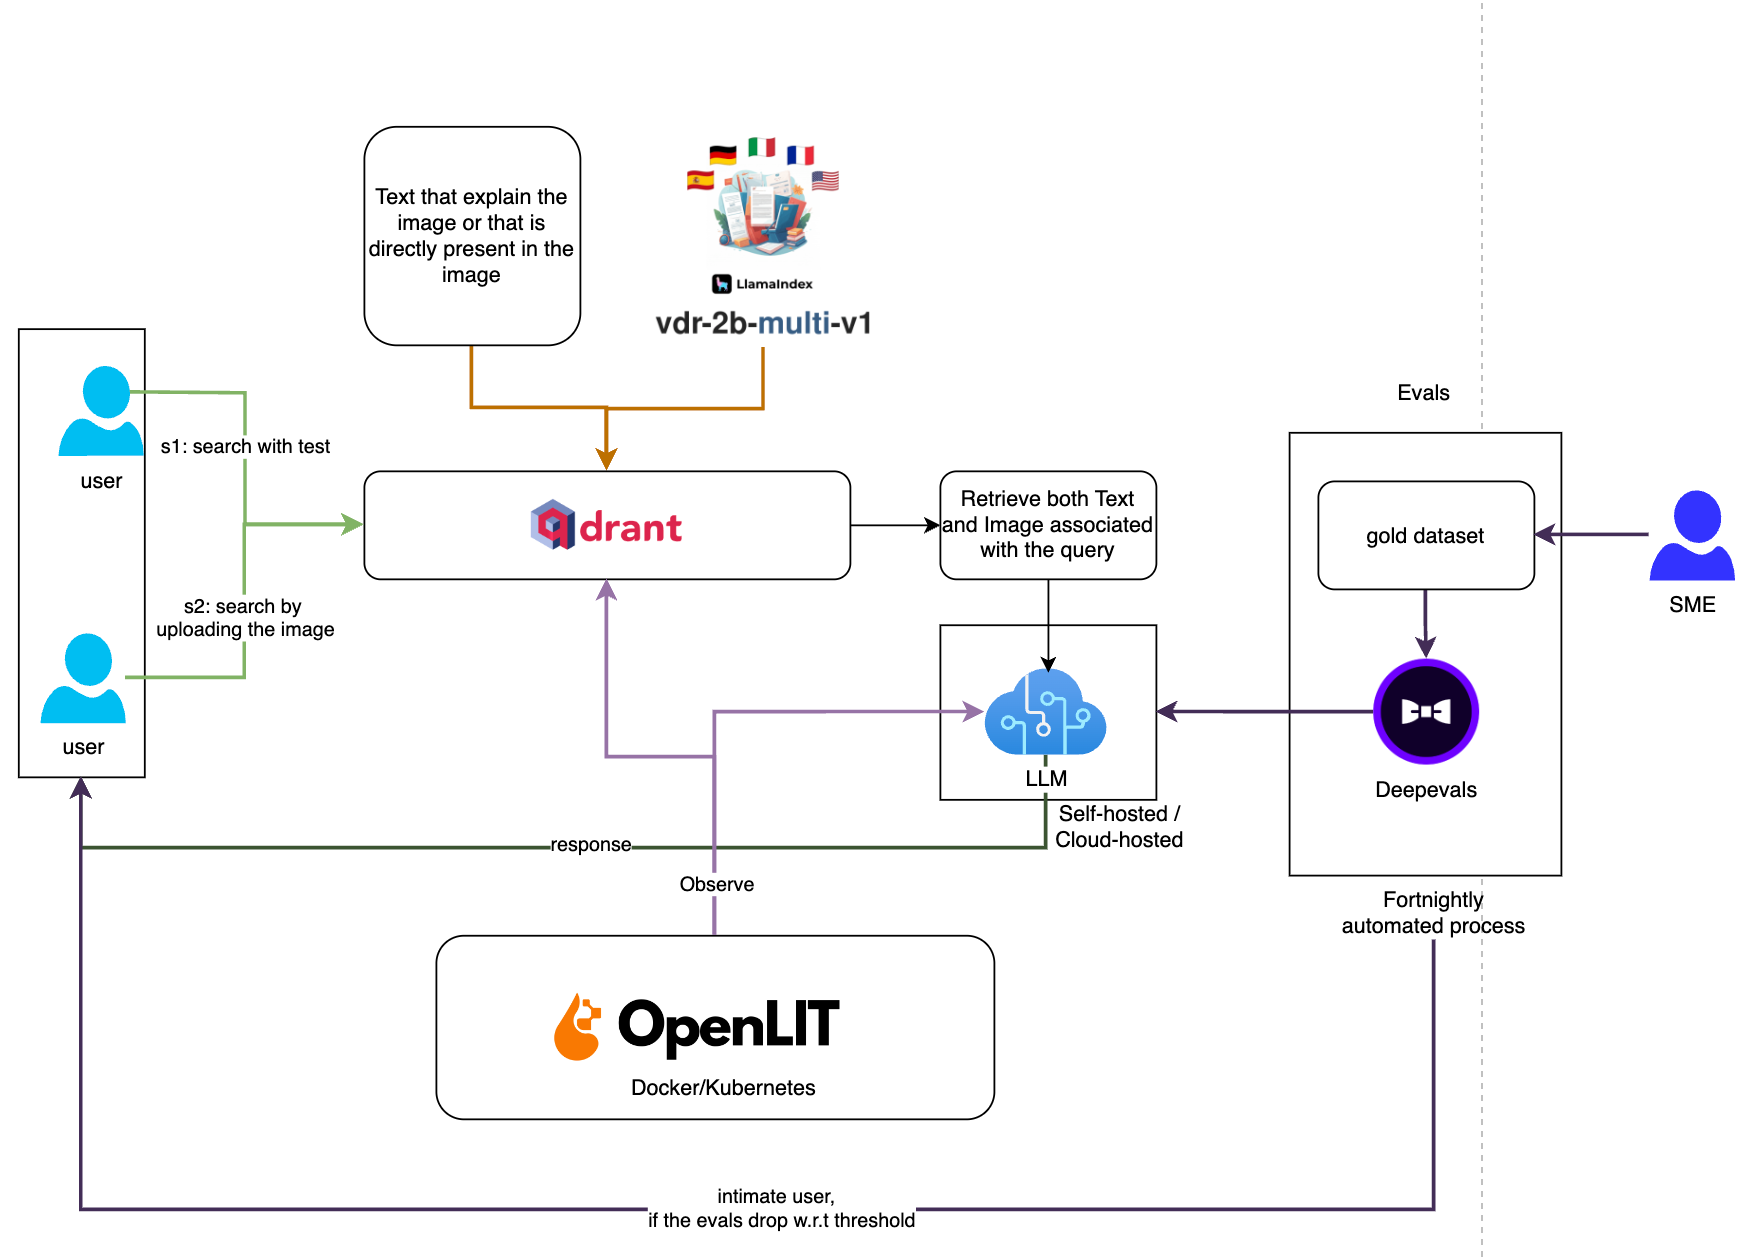
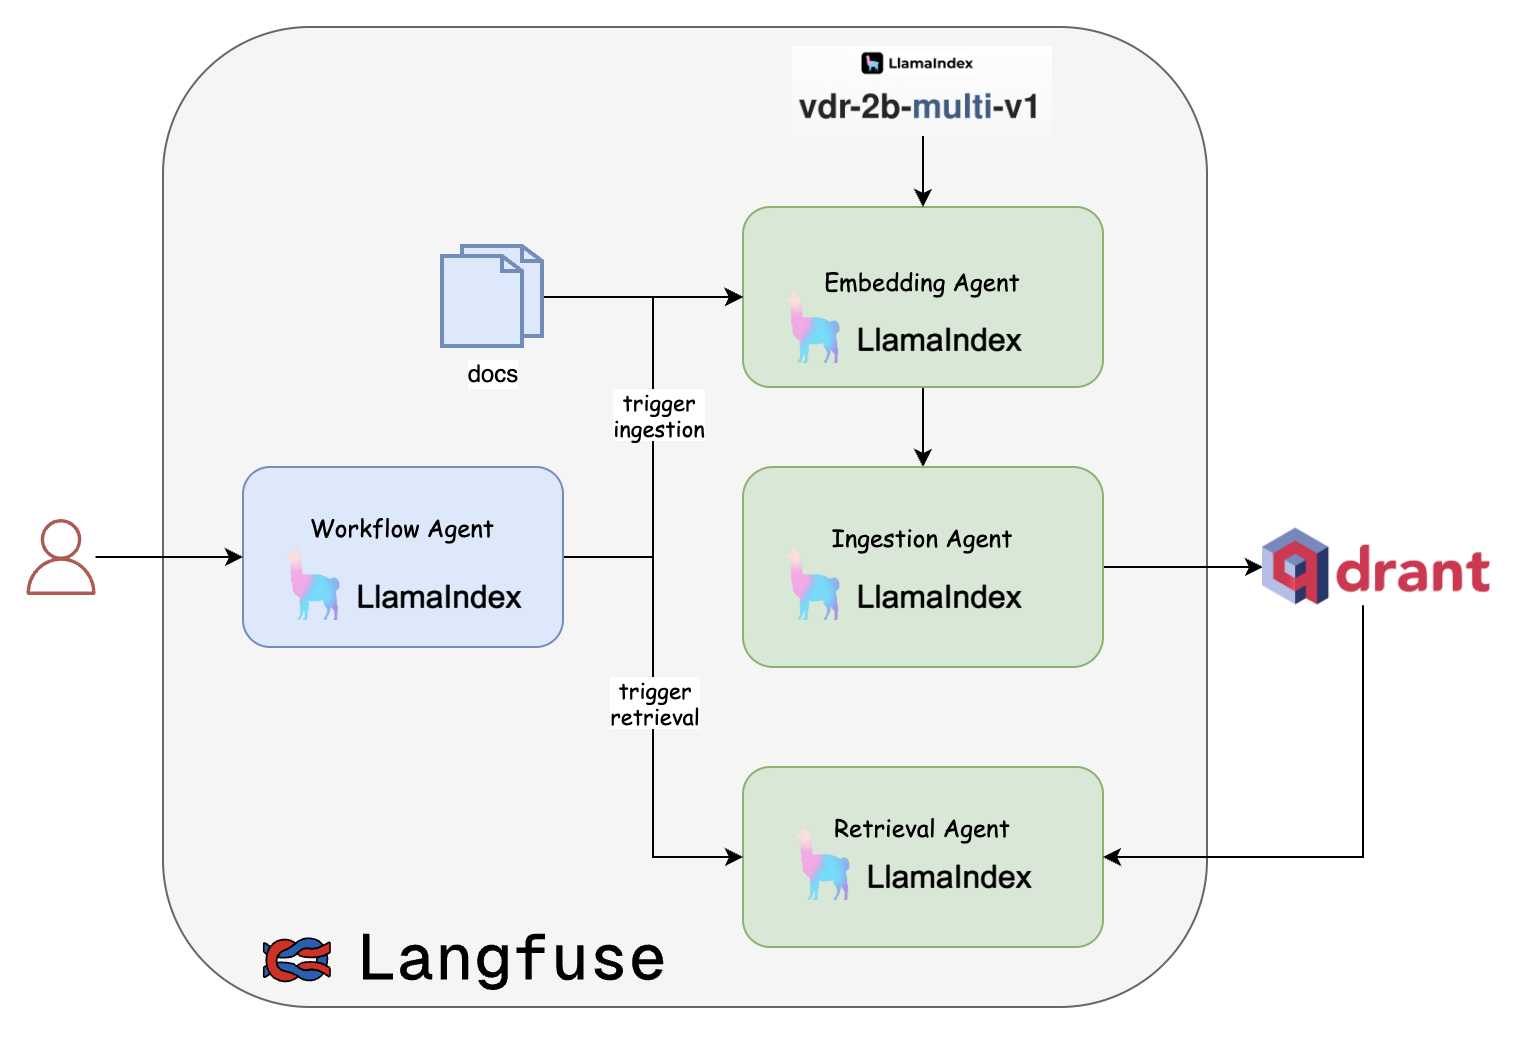
working code with agents and workflows (#3)

diff --git a/tools/rag_tools.py b/tools/rag_tools.py
@@ -1,0 +1,141 @@
+from qdrant_client import QdrantClient, models
+from llama_index.embeddings.huggingface import HuggingFaceEmbedding
+from PIL import Image
+from dotenv import load_dotenv, find_dotenv
+import os
+import json
+
+load_dotenv(find_dotenv())
+
+vec_db_client = QdrantClient(url="http://localhost:6333", api_key="th3s3cr3tk3y")
+collection_name = "architectures"
+
+# Initialize the documents list
+documents = []
+
+# Initialize the model to None
+model: HuggingFaceEmbedding = HuggingFaceEmbedding(
+    model_name="llamaindex/vdr-2b-multi-v1",
+    device="cpu",  # "mps" for mac, "cuda" for nvidia GPUs
+    trust_remote_code=True,
+)
+
+
+def create_embeddings():
+    """Useful for creating embeddings for images and text"""
+
+    print("downloading the llamaindex/vdr-2b-multi-v1 model from huggingface")
+    global model
+    global documents
+
+    # Specify the paths to the folders containing the images and descriptions
+    images_folder = "images"
+    descriptions_folder = "text"
+
+    print("creating document structure")
+
+    # Create a dictionary mapping image file names to their corresponding description files
+    image_files = sorted(os.listdir(images_folder))
+    description_files = sorted(os.listdir(descriptions_folder))
+
+    # Generate the documents structure
+    for image_file, description_file in zip(image_files, description_files):
+        # Read the description content
+        with open(os.path.join(descriptions_folder, description_file), "r") as f:
+            description_content = f.read().strip()
+
+        # Add the entry to the documents list
+        documents.append({
+            "architecture_description": description_content,
+            "architecture_image": os.path.join(images_folder, image_file)
+        })
+
+    # Save the documents structure to a JSON file (optional)
+    output_file = "documents.json"
+    with open(output_file, "w") as f:
+        json.dump(documents, f, indent=4)
+
+    print("Generated documents structure:")
+    print(json.dumps(documents, indent=4))
+
+
+def ingest_to_vec_db():
+    """Useful for ingesting the data to vector database"""
+    print("starting ingestion...")
+
+    text_embeddings = model.get_text_embedding_batch([doc["architecture_description"] for doc in documents],
+                                                     show_progress=True)
+    image_embeddings = []
+    for doc in documents:
+        image_embeddings.append(model.get_image_embedding(doc["architecture_image"]))
+
+    print("creating collection in qdrant...")
+
+    if not vec_db_client.collection_exists(collection_name=collection_name):
+        vec_db_client.create_collection(
+            collection_name=collection_name,
+            vectors_config={
+                "image": models.VectorParams(size=len(image_embeddings[0]), distance=models.Distance.COSINE),
+                "text": models.VectorParams(size=len(text_embeddings[0]), distance=models.Distance.COSINE),
+            }
+        )
+
+    print("inserting points into qdrant...")
+    vec_db_client.upload_points(
+        collection_name=collection_name,
+        points=[
+            models.PointStruct(
+                id=idx,
+                vector={
+                    "text": text_embeddings[idx],
+                    "image": image_embeddings[idx],
+                },
+                payload=doc
+            )
+            for idx, doc in enumerate(documents)
+        ]
+    )
+    print("indexing completed.")
+
+
+def retrieve_image_from_store(text_query: str):
+    """
+    Useful for retrieval of the data from vector database for a given text query
+    :param text_query: (str) input query
+    :return: None
+    """
+    print(f"started search...query: {text_query}")
+    find_image = model.get_query_embedding(query=text_query)
+    try:
+
+        response = vec_db_client.query_points(
+            collection_name=collection_name,
+            query=find_image,
+            using="image",
+            with_payload=["architecture_image"],
+            limit=1
+        ).points[0].payload['architecture_image']
+
+        print(response)
+        image = Image.open(response)
+        image.show()
+    except Exception as e:
+        print(e)
+
+
+def retrieve_text_from_store(image_path: str):
+    """
+    Useful for retrieval of the data from vector database for a given image path
+    :param image_path: (str) input image path to search
+    :return:
+    """
+    response = vec_db_client.query_points(
+        collection_name=collection_name,
+        query=model.get_image_embedding(image_path),
+        # Now we are searching only among text vectors with our image query
+        using="text",
+        with_payload=["architecture_description"],
+        limit=1
+    ).points[0].payload['architecture_description']
+
+    print(response)

diff --git a/advanced-rag.py b/advanced-rag.py
@@ -1,12 +1,92 @@
-from llama_index.core import VectorStoreIndex, StorageContext, SimpleDirectoryReader, Settings
-from llama_index.embeddings.huggingface import HuggingFaceEmbedding
-from llama_index.llms.ollama import Ollama
-from llama_index.vector_stores.qdrant import QdrantVectorStore
-from dotenv import load_dotenv, find_dotenv
+from llama_index.core.agent.workflow import FunctionAgent, AgentWorkflow
+from llama_index.core.tools import FunctionTool
+from llama_index.llms.anthropic import Anthropic
+from tools.rag_tools import retrieve_text_from_store, retrieve_image_from_store, ingest_to_vec_db, create_embeddings
 
-load_dotenv(find_dotenv())
+import os
+import json
 
 
 class MultilingualMultimodalRAG:
     def __init__(self):
-        pass
+        # Initialize the llm model
+        self.llm = Anthropic(model="claude-3-5-sonnet-20241022", temperature=0.2)
+
+    async def invoke_ingest_workflow(self):
+        embed_agent = FunctionAgent(
+            name="embeddings creator",
+            description="Performs embeddings creation task",
+            system_prompt="You are a assistant to create embeddings for the given data",
+            tools=[
+                FunctionTool.from_defaults(fn=create_embeddings),
+            ],
+            llm=self.llm,
+            can_handoff_to=["data ingestor"]
+        )
+
+        ingest_agent = FunctionAgent(
+            name="data ingestor",
+            description="Performs data ingestion task",
+            system_prompt="You are a assistant to ingest data into vector database",
+            tools=[
+                FunctionTool.from_defaults(fn=ingest_to_vec_db),
+            ],
+            llm=self.llm
+        )
+
+        # Create and run the workflow
+        workflow = AgentWorkflow(
+            agents=[embed_agent, ingest_agent], root_agent="embeddings creator", timeout=300
+        )
+
+        await workflow.run(user_msg="embed the data and then ingest it to vector database")
+
+    async def invoke_text2img_rag_workflow(self):
+        retrieval_agent = FunctionAgent(
+            name="retrieval agent",
+            description="Performs retrieval for the given user query",
+            system_prompt="You are an assistant to perform retrival for the given user query",
+            tools=[
+                FunctionTool.from_defaults(fn=retrieve_image_from_store)
+            ],
+            llm=self.llm
+        )
+        # Create and run the workflow
+        workflow = AgentWorkflow(
+            agents=[retrieval_agent], root_agent="retrieval agent", timeout=300
+        )
+
+        await workflow.run(user_msg="user interacting with Spring AI system")
+
+    async def invoke_img2text_rag_workflow(self):
+        retrieval_agent = FunctionAgent(
+            name="retrieval agent",
+            description="Performs retrieval for the given user query",
+            system_prompt="You are an assistant to perform retrival for the given user query",
+            tools=[
+                FunctionTool.from_defaults(fn=retrieve_text_from_store)
+            ],
+            llm=self.llm
+        )
+        # Create and run the workflow
+
+        workflow = AgentWorkflow(
+            agents=[retrieval_agent], root_agent="retrieval agent", timeout=300
+        )
+
+        await workflow.run(user_msg="images/image-2.png")
+
+
+if __name__ == "__main__":
+    import asyncio
+
+    adv_mm_rag = MultilingualMultimodalRAG()
+
+    # first time to ingest the data
+    # asyncio.run(adv_mm_rag.invoke_ingest_workflow())
+
+    # keep it enabled if you want to ask queries - text2img
+    # asyncio.run(adv_mm_rag.invoke_text2img_rag_workflow())
+
+    # keep it enabled if you want to ask queries - img2text
+    asyncio.run(adv_mm_rag.invoke_img2text_rag_workflow())
